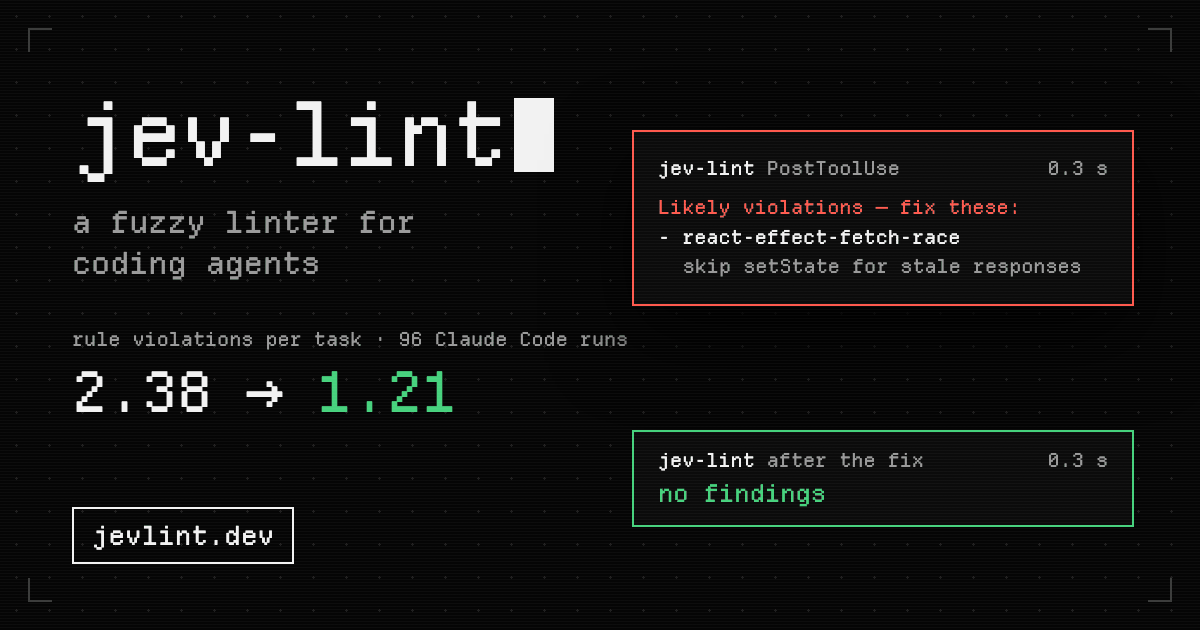
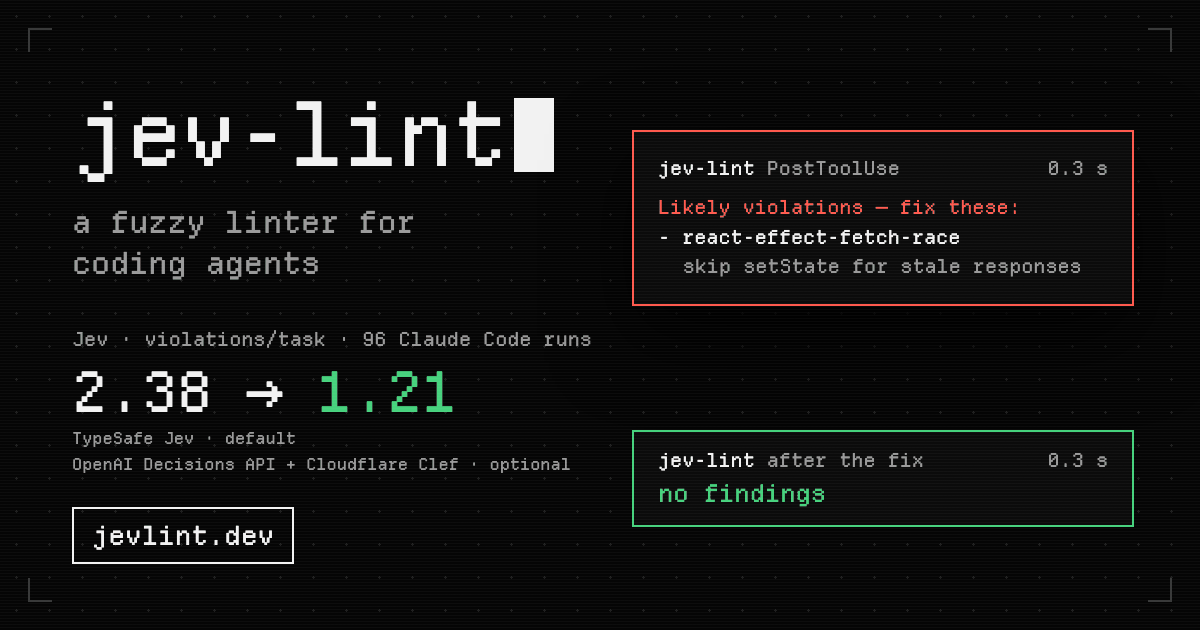
Promote optional Decisions and Clef providers on jevlint.dev

Changed region(s): [[0.0617, 0.5127, 0.5242, 0.573], [0.0617, 0.6635, 0.4933, 0.754]]

diff --git a/site/public/index.html b/site/public/index.html
@@ -4,7 +4,7 @@
 <meta charset="utf-8">
 <meta name="viewport" content="width=device-width, initial-scale=1">
 <title>jev-lint — a fuzzy linter for coding agents</title>
-<meta name="description" content="A fuzzy linter for Claude Code and Codex. 0.3 s after your agent writes a file, it hears which of your team's rules it broke and fixes them before review. Open source.">
+<meta name="description" content="A fuzzy linter for Claude Code and Codex. Check edits with TypeSafe Jev, or opt into the OpenAI Decisions API or Cloudflare Clef. Open source.">
 <link rel="canonical" href="https://jevlint.dev/">
 <meta name="theme-color" content="#050505">
 <meta name="color-scheme" content="dark">
@@ -15,7 +15,7 @@
 <meta property="og:site_name" content="jev-lint">
 <meta property="og:url" content="https://jevlint.dev/">
 <meta property="og:title" content="jev-lint — a fuzzy linter for coding agents">
-<meta property="og:description" content="0.3 s after your agent writes a file, it hears which of your team's rules it broke, and fixes them before review. Violations per task: 2.38 → 1.21.">
+<meta property="og:description" content="Your team's rules, checked at every edit. TypeSafe Jev by default; OpenAI Decisions API and Cloudflare Clef available as optional providers.">
 <meta property="og:image" content="https://jevlint.dev/og.png">
 <meta property="og:image:type" content="image/png">
 <meta property="og:image:width" content="1200">
@@ -24,7 +24,7 @@
 <meta property="og:locale" content="en_US">
 <meta name="twitter:card" content="summary_large_image">
 <meta name="twitter:title" content="jev-lint — a fuzzy linter for coding agents">
-<meta name="twitter:description" content="0.3 s after your agent writes a file, it hears which of your team's rules it broke, and fixes them before review.">
+<meta name="twitter:description" content="Your team's rules, checked at every edit. TypeSafe Jev by default; optional OpenAI Decisions API and Cloudflare Clef.">
 <meta name="twitter:image" content="https://jevlint.dev/og.png">
 <meta name="twitter:image:alt" content="jev-lint: a fuzzy linter for coding agents. Violations per task fell from 2.38 to 1.21.">
 
@@ -43,13 +43,13 @@
       "@id": "https://jevlint.dev/#app",
       "name": "jev-lint",
       "alternateName": "jevlint",
-      "description": "A fuzzy linter for coding agents. A Claude Code and Codex hook checks each edit against your team's rules with TypeSafe Jev in about 0.3 seconds, so the agent fixes violations before code review.",
+      "description": "A fuzzy linter for coding agents. A Claude Code and Codex hook checks edits against your team's rules with TypeSafe Jev by default, or optional OpenAI Decisions API and Cloudflare Clef providers, so the agent can fix violations before code review.",
       "url": "https://jevlint.dev/",
       "image": "https://jevlint.dev/og.png",
       "applicationCategory": "DeveloperApplication",
       "applicationSubCategory": "Linter",
       "operatingSystem": "macOS, Linux",
-      "softwareRequirements": "Bun, a TypeSafe API key or Cloudflare Workers AI credentials, Claude Code or Codex",
+      "softwareRequirements": "Bun, credentials for TypeSafe, OpenAI or Cloudflare Workers AI, Claude Code or Codex",
       "license": "https://opensource.org/licenses/MIT",
       "isAccessibleForFree": true,
       "offers": { "@type": "Offer", "price": "0", "priceCurrency": "USD" },
@@ -150,6 +150,9 @@ h2{font-size:clamp(28px,3.9vw,52px);max-width:22ch}
 .links{display:flex;flex-wrap:wrap;gap:4px 22px;font-size:15px}
 .links a{display:inline-flex;align-items:center;min-height:44px}
 .meta{font-size:13px;color:var(--dim)}
+.providers{display:flex;flex-wrap:wrap;gap:8px 24px;margin-top:24px;font-size:14px;color:var(--text)}
+.providers a{display:inline-flex;align-items:center;min-height:44px;gap:8px}
+.providers span{font-size:12px;color:var(--dim)}
 
 /* Terminal widget */
 .term{border:1px solid #262626;background:var(--panel);box-shadow:0 28px 60px -20px rgba(0,0,0,.9);font-size:clamp(10px,2.75vw,14.5px);line-height:1.6;position:relative;overflow:hidden}
@@ -345,9 +348,14 @@ footer a{color:var(--dim);display:inline-flex;align-items:center;min-height:44px
 <section class="hero" aria-labelledby="h-hero">
   <div class="wrap">
     <h1 id="h-hero">A fuzzy linter for coding agents.<span class="cur" aria-hidden="true"></span></h1>
+    <div class="providers" role="group" aria-label="Supported providers">
+      <a href="#decisions">OpenAI Decisions API <span>optional · beta</span></a>
+      <a href="#cloudflare">Cloudflare Clef <span>optional</span></a>
+      <a href="https://docs.typesafe.ai">TypeSafe Jev <span>default</span></a>
+    </div>
     <div class="grid">
       <div>
-        <p class="pitch">Your agent writes a file; <b>0.3 seconds later</b> it hears which of your team's rules it just broke, and fixes them before anyone reviews the code.</p>
+        <p class="pitch">Your agent writes code. <b>Your rules catch the mistakes.</b> Findings go straight back to Claude Code or Codex, so the agent can fix them before review.</p>
         <div class="cta">
           <div class="seg" role="group" aria-label="Choose your agent">
             <button type="button" data-agent="claude" aria-pressed="true">Claude Code</button>
@@ -359,7 +367,7 @@ footer a{color:var(--dim);display:inline-flex;align-items:center;min-height:44px
             <a href="https://github.com/ckorhonen/jev-lint"><svg class="gh" aria-hidden="true"><use href="#gh"/></svg>ckorhonen/jev-lint</a>
             <a href="#demo">Watch the 40-second demo</a>
           </div>
-          <p class="meta">A hook for Claude Code and Codex · open source, MIT</p>
+          <p class="meta">About 0.3 s per check with TypeSafe Jev · open source, MIT</p>
         </div>
       </div>
 
@@ -448,8 +456,8 @@ footer a{color:var(--dim);display:inline-flex;align-items:center;min-height:44px
     <p class="lead">Under the hood, it's small on purpose.</p>
     <h2 id="h-how">One hook. One call. Two tiers.</h2>
     <ol class="steps">
-      <li><p class="when">after every edit</p><h3>The hook sends only the new code.</h3><p>A PostToolUse hook in Claude Code or Codex sends the code the agent just added to <a href="https://docs.typesafe.ai">TypeSafe Jev</a>, a fast judgment model: one yes/no question per rule, in one call. A keyword gate skips rules that can't apply. <a href="#cloudflare">Cloudflare Clef is an optional alternative.</a></p></li>
-      <li><p class="when">about 0.3 s later</p><h3>Findings go straight back.</h3><div class="tiers"><div><span class="red">p ≥ 0.8</span> <span class="dim">likely violations: fix these</span></div><div><span style="color:var(--amber)">0.5–0.8</span> <span class="dim">possible: double-check</span></div></div></li>
+      <li><p class="when">after every edit</p><h3>The hook checks the code you changed.</h3><p>A PostToolUse hook in Claude Code or Codex sends added code for edits (whole files for writes and end-of-turn rechecks) to <a href="https://docs.typesafe.ai">TypeSafe Jev</a>, a fast judgment model: one yes/no question per rule, in one call. A keyword gate skips rules that can't apply. Or opt into the <a href="#decisions">OpenAI Decisions API</a> or <a href="#cloudflare">Cloudflare Clef</a>.</p></li>
+      <li><p class="when">about 0.3 s with Jev</p><h3>Findings go straight back.</h3><div class="tiers"><div><span class="red">p ≥ 0.8</span> <span class="dim">likely violations: fix these</span></div><div><span style="color:var(--amber)">0.5–0.8</span> <span class="dim">possible: double-check</span></div></div></li>
       <li><p class="when">never in the way</p><h3>It fails open.</h3><p>On a timeout, an API error or an unknown file type it exits silently and the edit goes through. It complements linters, type checkers and review; it doesn't replace them.</p></li>
     </ol>
   </div>
@@ -460,7 +468,7 @@ footer a{color:var(--dim);display:inline-flex;align-items:center;min-height:44px
   <div class="wrap">
     <p class="lead">Does it work? We measured it in real agent runs.</p>
     <h2 id="h-proof">Agents act on it.</h2>
-    <p class="lede">Rule violations left in the final code, per task, with the hook off and on.</p>
+    <p class="lede">Rule violations left in the final code, per task, with the hook off and on. These results use TypeSafe Jev; comparisons with Decisions and Clef are pending.</p>
     <div class="legend"><span><i style="background:#5c5c5c"></i>hook off</span><span><i style="background:var(--green)"></i>hook on</span></div>
     <div class="chart anim" data-anim>
       <div class="grp">
@@ -583,7 +591,7 @@ footer a{color:var(--dim);display:inline-flex;align-items:center;min-height:44px
   <div class="wrap">
     <p class="lead">Try it on your repo.</p>
     <h2 id="h-setup">One paste. Your agent does the rest.</h2>
-    <p class="lede">Needs <a href="https://bun.sh">bun</a> and a <a href="https://docs.typesafe.ai">TypeSafe</a> API key for the default mode, or <a href="#cloudflare">Cloudflare Workers AI credentials</a>. Paste this into your agent from the repo you want checked.</p>
+    <p class="lede">Needs <a href="https://bun.sh">bun</a> and a <a href="https://docs.typesafe.ai">TypeSafe</a> API key for the default mode, or credentials for the optional <a href="#decisions">OpenAI Decisions API</a> or <a href="#cloudflare">Cloudflare Clef</a> provider. Paste this into your agent from the repo you want checked.</p>
     <div class="prompt">
       <header>
         <div class="seg" role="group" aria-label="Choose your agent">
@@ -592,9 +600,12 @@ footer a{color:var(--dim);display:inline-flex;align-items:center;min-height:44px
         </div>
         <span class="f">prompt.txt</span>
       </header>
-<pre id="prompt-text" data-prompt>Set up jev-lint for me: https://github.com/ckorhonen/jev-lint
+<pre id="prompt-text" data-prompt>Set up jev-lint for me: https://jevlint.dev
+Source: https://github.com/ckorhonen/jev-lint
 Clone it to ~/Repos/jev-lint if it isn't there, then follow its jev-lint-setup skill
-(.agents/skills/jev-lint-setup/SKILL.md): check my TypeSafe key, show me the dry run, install
+(.agents/skills/jev-lint-setup/SKILL.md): use TypeSafe Jev by default; if I choose OpenAI
+Decisions API or Cloudflare Clef, follow its README setup. Check the selected provider's
+credentials without printing them, show me the dry run, install
 the hook once I confirm, and run the smoke test. Then use its jev-lint-rules skill on this
 repo: read all of our agent instructions, skills, docs and linter configs, and propose rules
 for me to approve before writing anything.
@@ -621,11 +632,36 @@ export CLOUDFLARE_ACCOUNT_ID=your_32_character_account_id
 bun src/install.ts --skills --smoke
 bun src/install.ts --apply --skills --smoke</pre>
     </div>
-    <p style="margin-top:20px">Cloudflare receives the added code and rule questions, and bills usage to your account. The hook still fails open if a check fails. Keep the token in your agent's environment or a private file.</p>
+    <p style="margin-top:20px">Cloudflare receives added code for edits, whole files for writes and end-of-turn rechecks, and rule questions. Usage is billed to your account. The hook still fails open if a check fails. Keep the token in your agent's environment or a private file.</p>
     <p style="margin-top:16px"><b>Experimental; comparison pending.</b> The accuracy, speed and cost results on this site were measured with Jev. They do not establish Clef's performance on these rules.</p>
     <div class="setup-cta">
       <a href="https://github.com/ckorhonen/jev-lint#cloudflare-clef-optional">Cloudflare setup and switching back →</a>
       <a href="https://github.com/ckorhonen/jev-lint/blob/main/docs/cloudflare-eval.md">Comparison method and status →</a>
+    </div>
+  </div>
+</section>
+
+<section id="decisions" aria-labelledby="h-decisions">
+  <div class="wrap">
+    <p class="lead">A new optional judge.</p>
+    <h2 id="h-decisions">Use the OpenAI Decisions API.</h2>
+    <p class="lede">Turn your team's rules into yes/no questions with OpenAI's public beta Decisions API. The same rule packs, keyword gates and feedback tiers work with <code>gpt-6-luna</code>. TypeSafe Jev remains the default.</p>
+    <div class="prompt">
+      <header><span class="f">optional OpenAI setup</span></header>
+<pre>export JEV_LINT_PROVIDER=openai
+export JEV_LINT_MODEL=gpt-6-luna
+# Provide an existing OPENAI_API_KEY in your agent's environment,
+# or OPENAI_API_KEY_FILE pointing to a private mode-600 file.
+bun src/install.ts                         # dry run
+# After approving billing, code transmission and installation:
+bun src/install.ts --apply --smoke</pre>
+    </div>
+    <p style="margin-top:20px">OpenAI receives added code for edits, whole files for writes and end-of-turn rechecks, file context and rule questions. Usage is billed to your OpenAI account. Keys stay out of hook configs; an optional private key-file path is retained across hook and daemon startup.</p>
+    <p style="margin-top:16px">The hook fails open if a request fails. Switching providers is explicit, with no automatic fallback.</p>
+    <p style="margin-top:16px"><b>Live smoke verified; comparison pending.</b> A synthetic Decisions request passed. Accuracy, speed and cost comparisons on these rules have not been measured; the Jev results on this page do not apply to Decisions.</p>
+    <div class="setup-cta">
+      <a href="https://github.com/ckorhonen/jev-lint#openai-decisions-optional">OpenAI setup and switching back →</a>
+      <a href="https://github.com/ckorhonen/jev-lint/blob/main/docs/decisions-eval.md">Verification and comparison status →</a>
     </div>
   </div>
 </section>
@@ -635,8 +671,8 @@ bun src/install.ts --apply --skills --smoke</pre>
   <div class="wrap" style="position:relative">
     <h2 id="h-end" class="mark">jev-lint</h2>
     <p class="tag">a fuzzy linter for coding agents</p>
-    <a class="url" href="https://github.com/ckorhonen/jev-lint"><svg class="gh" aria-hidden="true"><use href="#gh"/></svg>github.com/ckorhonen/jev-lint</a>
-    <p class="src" style="margin:20px auto 0">Claude Code + Codex hook · TypeSafe Jev by default · optional Cloudflare Clef · MIT</p>
+    <a class="url" href="https://jevlint.dev">jevlint.dev</a>
+    <p class="src" style="margin:20px auto 0">Claude Code + Codex hook · TypeSafe Jev by default · optional OpenAI Decisions API + Cloudflare Clef · MIT</p>
   </div>
 </section>
 

diff --git a/site/src/og.html b/site/src/og.html
@@ -14,6 +14,7 @@ h1 i{display:inline-block;width:40px;height:74px;background:#f2f2f2;vertical-ali
 .tag{font-size:30px;color:#9a9a9a;margin-top:12px;line-height:1.35}
 .stat{margin-top:44px;font-size:19px;color:#9a9a9a}
 .stat b{display:block;font-weight:400;font-size:55px;color:#f2f2f2;margin-top:6px}.stat b span{color:#46d27d}
+.providers{position:absolute;left:72px;top:426px;font-size:16px;line-height:1.6;color:#9a9a9a}
 .url{position:absolute;left:72px;bottom:66px;font-size:26px;border:2px solid #f2f2f2;padding:10px 18px}
 .panel{position:absolute;right:66px;top:130px;width:450px;border:2px solid #ff5a4e;background:#0b0b0b;padding:22px 24px;font-size:19px;line-height:1.55;box-shadow:0 30px 80px #000}
 .panel .h{display:flex;color:#9a9a9a}.panel .h b{font-weight:400;color:#f2f2f2;margin-right:12px}.panel .h span:last-child{margin-left:auto}
@@ -26,8 +27,9 @@ h1 i{display:inline-block;width:40px;height:74px;background:#f2f2f2;vertical-ali
 <div class="l">
   <h1>jev-lint<i></i></h1>
   <div class="tag">a fuzzy linter for<br>coding agents</div>
-  <div class="stat">rule violations per task · 96 Claude Code runs<b>2.38 → <span>1.21</span></b></div>
+  <div class="stat">Jev · violations/task · 96 Claude Code runs<b>2.38 → <span>1.21</span></b></div>
 </div>
+<div class="providers">TypeSafe Jev · default<br>OpenAI Decisions API + Cloudflare Clef · optional</div>
 <div class="url">jevlint.dev</div>
 <div class="panel">
   <div class="h"><b>jev-lint</b><span>PostToolUse</span><span>0.3 s</span></div>

diff --git a/site/public/app.js b/site/public/app.js
@@ -14,9 +14,12 @@
   const HOLD_OK_MS = 3600;
 
   /* ── Setup prompt: Claude Code / Codex variants ─────────────────────── */
-  const BASE = `Set up jev-lint for me: https://github.com/ckorhonen/jev-lint
+  const BASE = `Set up jev-lint for me: https://jevlint.dev
+Source: https://github.com/ckorhonen/jev-lint
 Clone it to ~/Repos/jev-lint if it isn't there, then follow its jev-lint-setup skill
-(.agents/skills/jev-lint-setup/SKILL.md): check my TypeSafe key, show me the dry run, install
+(.agents/skills/jev-lint-setup/SKILL.md): use TypeSafe Jev by default; if I choose OpenAI
+Decisions API or Cloudflare Clef, follow its README setup. Check the selected provider's
+credentials without printing them, show me the dry run, install
 the hook once I confirm, and run the smoke test. Then use its jev-lint-rules skill on this
 repo: read all of our agent instructions, skills, docs and linter configs, and propose rules
 for me to approve before writing anything.`;

diff --git a/site/README.md b/site/README.md
@@ -13,3 +13,5 @@ python3 -m http.server 8787 -d public     # preview locally
   results; update the page when those change.
 - The demo video in `public/media/` is a gitignored copy of `docs/media/jev-lint-demo-1920x1080.mp4` (`scripts/sync-media.sh` refreshes it); the WebP poster is committed.
 - Departure Mono is self-hosted under the SIL OFL 1.1 (`public/fonts/DepartureMono-OFL.txt`).
+
+Provider support is named in the hero and setup sections: TypeSafe Jev is the default; OpenAI Decisions API (public beta) and Cloudflare Clef are optional. Keep provider setup and privacy copy aligned with the root README. Published accuracy, latency and cost figures apply to Jev only; the synthetic Decisions smoke is not a comparative benchmark. Setup prompts and promotional end cards use https://jevlint.dev, with GitHub links retained for source and documentation.
